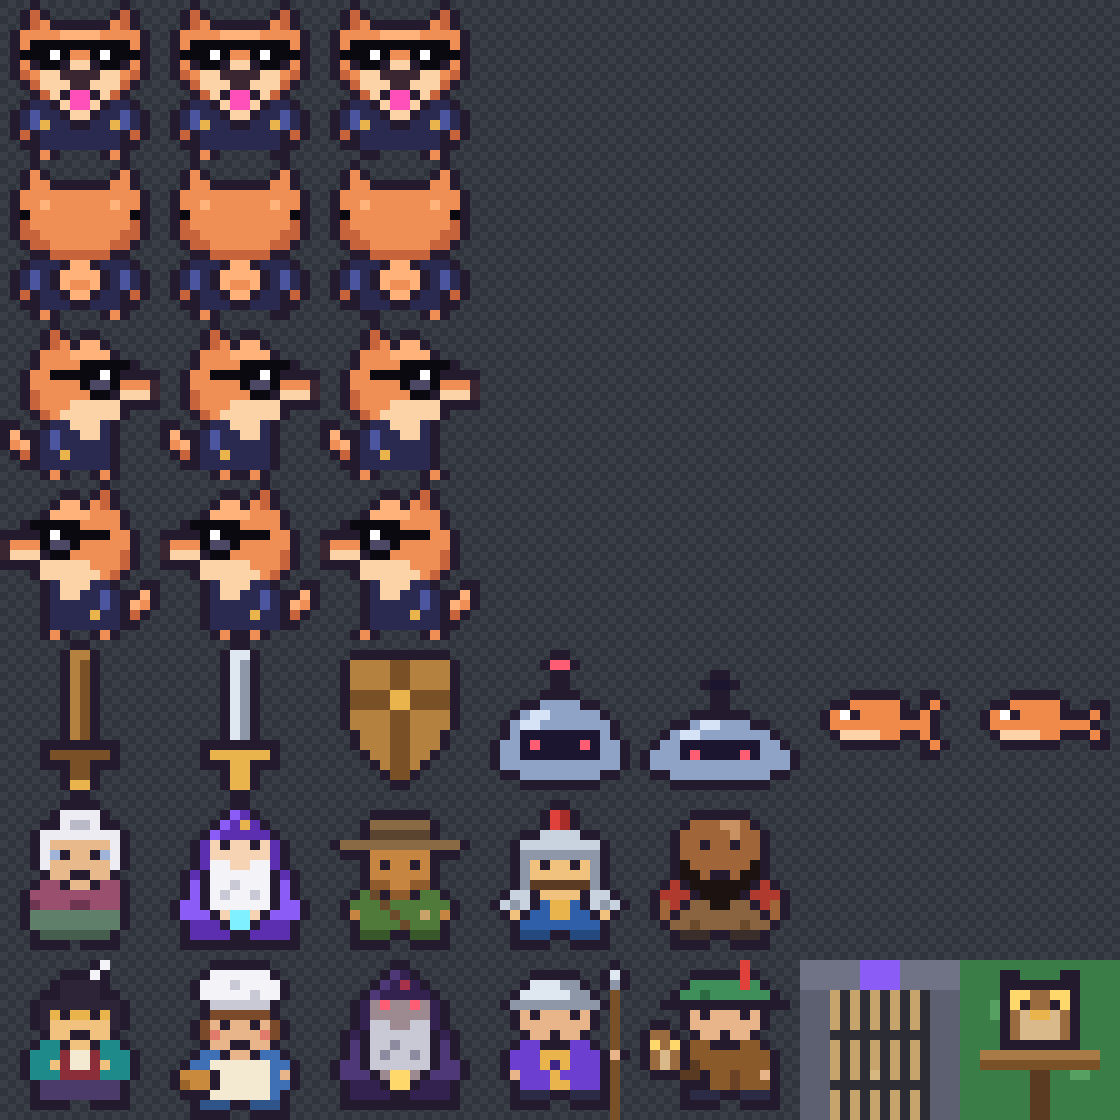
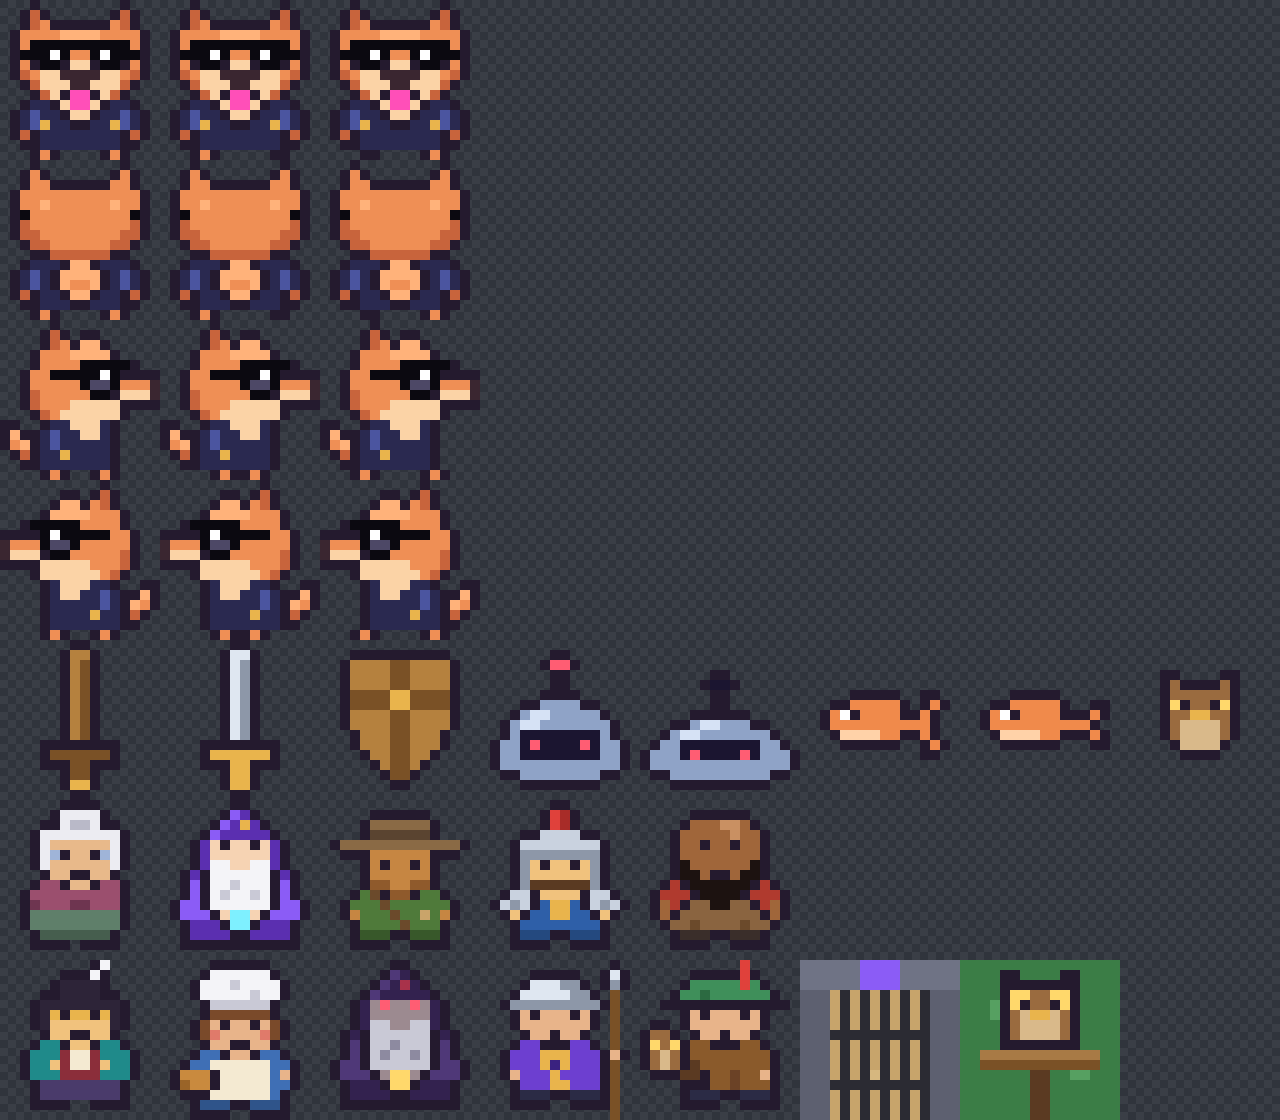
feat(game): the owl rides on the dog's shoulder
It hops there when the Falconer hands it over (only when motion is welcome) and stays.

diff --git a/app/src/game/scene.ts b/app/src/game/scene.ts
@@ -6,7 +6,7 @@ import { SHEETS } from './sheets.ts'
 import { sfx } from './sound.ts'
 import { KNIGHT_QUOTA, defeated, hasSteel, type MonsterKind } from './quest-machine.ts'
 import { houseStage, type HouseStage } from './house-machine.ts'
-import { owlStage } from './owl-machine.ts'
+import { owlAtLeast, owlStage } from './owl-machine.ts'
 import { openVaultChest, visitPerch } from './owl-story.ts'
 import {
   currentLetter,
@@ -107,7 +107,10 @@ const SWING = { from: 100, to: -50, ms: 160 }
 /** What a player hears when the game has lost their session somewhere they could only be with one. */
 const LOST_SESSION = 'Something went wrong and your session was lost, so you start again in Hearth Village.'
 
-const ITEM = { swordWood: 0, swordSteel: 1 }
+const ITEM = { swordWood: 0, swordSteel: 1, owl: 7 }
+
+/** Where the owl sits on the dog, from the dog's center, and how high above that its hop starts. */
+const OWL_SEAT = { x: 5, y: -8, hop: 14 }
 
 /** Rows of the dog's frame left above the waterline while swimming: head and collar. */
 const SWIM_DEPTH = 11
@@ -337,6 +340,9 @@ export class KingdomScene extends Phaser.Scene {
   private guards: Guard[] = []
   /** An item shown rising out of a chest until the player closes its dialog. */
   private shownItem: Phaser.GameObjects.Image | undefined
+  private owl: Phaser.GameObjects.Image | undefined
+  /** How far above its seat the owl is, while it hops onto the dog's shoulder. */
+  private owlHop = 0
   private monsters: Monster[] = []
   private fish: Fish[] = []
   private phish: Phish[] = []
@@ -498,6 +504,7 @@ export class KingdomScene extends Phaser.Scene {
       .setDepth(10)
     this.swim(this.tileAt(this.pos) === TILE.water)
     this.sword = this.add.image(0, 0, 'items', ITEM.swordWood).setVisible(false).setDepth(9)
+    this.owl = this.add.image(0, 0, 'items', ITEM.owl).setVisible(owlAtLeast('fledged')).setDepth(12)
 
     this.cameras.main.setBounds(0, 0, MAP_WIDTH * T, MAP_HEIGHT * T)
     this.cameras.main.startFollow(this.player, true)
@@ -544,7 +551,27 @@ export class KingdomScene extends Phaser.Scene {
     })
   }
 
+  /** The owl rides on the dog's shoulder from the moment the Falconer hands it over, and hops there first. */
+  private carryOwl() {
+    const { owl, player } = this
+
+    if (!owl || !player || !owlAtLeast('fledged')) return
+
+    if (!owl.visible) {
+      owl.setVisible(true)
+
+      // Motion is opt-in: without it the owl is simply there.
+      if (matchMedia('(prefers-reduced-motion: no-preference)').matches) {
+        this.owlHop = OWL_SEAT.hop
+        this.tweens.add({ targets: this, owlHop: 0, duration: 420, ease: 'Bounce.easeOut' })
+      }
+    }
+
+    owl.setPosition(player.x + OWL_SEAT.x, player.y + OWL_SEAT.y - this.owlHop)
+  }
+
   override update(time: number) {
+    this.carryOwl()
     const { controls, inputResumesAt } = quest.get()
     const pending = this.pending
     this.pending = new Set()

diff --git a/app/src/game/sheets.ts b/app/src/game/sheets.ts
@@ -1,7 +1,7 @@
 // Generated by art/sprites.mjs; don't edit. Each URL carries a hash of the file's contents.
 export const SHEETS = {
   dog: '/assets/dog.png?v=0be57c5f01',
-  items: '/assets/items.png?v=384674e5ad',
+  items: '/assets/items.png?v=1aff93fcbb',
   npcs: '/assets/npcs.png?v=48096e77bd',
   tiles: '/assets/tiles.png?v=c810bef117',
   splash: '/assets/splash.png?v=40d2470162',
